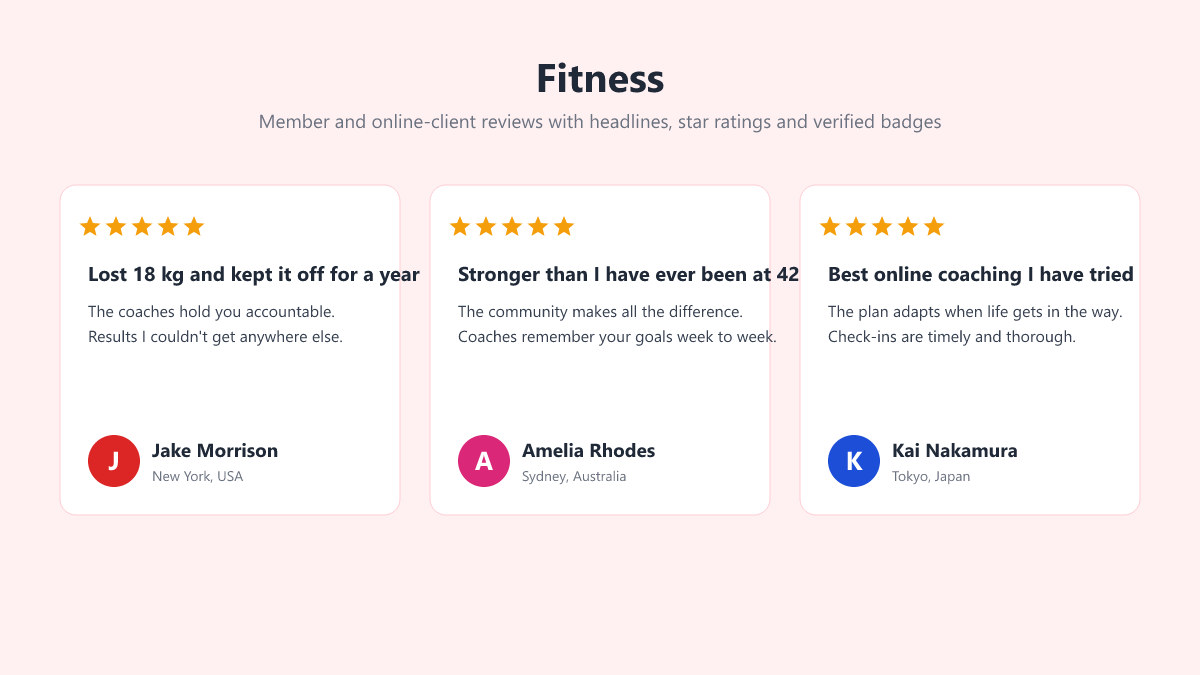
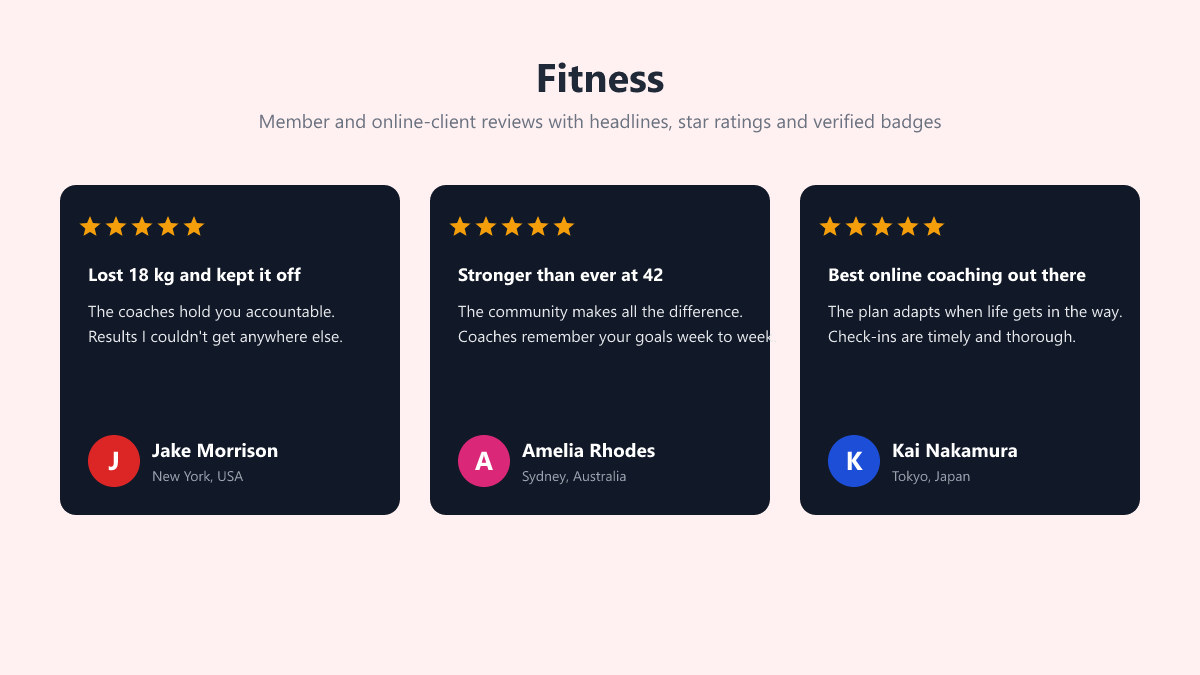
advanced-testimonial: card styles showcase, styled previews, count-free header

diff --git a/build-advanced-testimonial.js b/build-advanced-testimonial.js
@@ -105,6 +105,22 @@ function badges(d) {
 	return out;
 }
 
+/* ---------- Card styles showcase (live CSS, not screenshots) ---------- */
+const STYLE_NAMES = ['classic', 'modern', 'minimal', 'bubble', 'bold', 'glass', 'gradient', 'outline', 'retro'];
+
+function styleCards() {
+	return STYLE_NAMES.map(
+		(s) => `<div class="stylecard stylecard--${s}">
+	<p class="stylecard__label">style="${s}"</p>
+	<div class="sc">
+		<div class="sc__stars">★★★★★</div>
+		<p class="sc__quote">Onboarding was effortless and results showed within a month.</p>
+		<div class="sc__who"><span class="sc__avatar">E</span><span class="sc__meta"><span class="sc__name">Emma Thompson</span><span class="sc__role">CEO · Brightwave</span></span></div>
+	</div>
+</div>`
+	).join('\n');
+}
+
 /* ---------- Gallery index ---------- */
 function buildIndex() {
 	const cards = full
@@ -142,7 +158,7 @@ function buildIndex() {
 		${breadcrumbLd([{ name: 'All Plugins', url: ROOT_URL }, { name: 'Advanced Testimonial', url: BASE }])}
 		<p class="eyebrow">WordPress plugin</p>
 		<h1>Advanced Testimonial — Demo Library</h1>
-		<p class="lead">${esc(full.length)} ready-made testimonial sets you can import in one click from your WordPress dashboard — each built with the free <a href="${PLUGIN_WPORG}">Advanced Testimonial</a> plugin.</p>
+		<p class="lead">Ready-made testimonial sets you can import in one click from your WordPress dashboard — each built with the free <a href="${PLUGIN_WPORG}">Advanced Testimonial</a> plugin.</p>
 		<p class="links"><a class="btn" href="${PLUGIN_WPORG}">Get the plugin</a> <a class="btn btn--ghost" href="${GITHUB}">GitHub</a></p>
 	</div>
 </header>
@@ -150,6 +166,13 @@ function buildIndex() {
 	<div class="grid">
 ${cards}
 	</div>
+	<section class="styles">
+		<h2>Card styles</h2>
+		<p class="styles__lead">Every demo can wear any of these looks — pick one per block or shortcode with the <code>style</code> attribute, or set a site-wide default under <strong>Settings → Styles</strong>.</p>
+		<div class="styles__grid">
+${styleCards()}
+		</div>
+	</section>
 </main>
 <footer class="site-footer"><div class="wrap"><p>Advanced Testimonial demo library · <a href="${PLUGIN_WPORG}">WordPress.org</a> · <a href="${GITHUB}">GitHub</a></p></div></footer>
 </body></html>`;
@@ -220,6 +243,7 @@ function buildDemo(d) {
 </header>
 <main class="wrap demo">
 	<div class="demo__preview"><img src="${esc(preview)}" alt="${esc(d.name)} preview" width="1200" height="675"></div>
+	${d.preview_style ? `<p class="stylenote">Preview shown with the <code>style="${esc(d.preview_style)}"</code> card style — add it to your shortcode or block to match. The import gives you the content; the look is yours to pick.</p>` : ''}
 
 	<section class="panel">
 		<h2>How to import</h2>
@@ -285,7 +309,9 @@ a{color:var(--accent);text-decoration:none}a:hover{text-decoration:underline}
 .badge--new{background:#16a34a}.badge--featured{background:#f59e0b}
 .chip{display:inline-block;font-size:12px;padding:3px 10px;border-radius:999px;background:var(--soft);border:1px solid var(--line);color:var(--muted)}
 .demo{padding-bottom:60px}
-.demo__preview{border:1px solid var(--line);border-radius:14px;overflow:hidden;margin:28px 0}
+.demo__preview{border:1px solid var(--line);border-radius:14px;overflow:hidden;margin:28px 0 10px}
+.stylenote{margin:0 0 26px;font-size:14px;color:var(--muted)}
+.stylenote code{background:var(--soft);border:1px solid var(--line);border-radius:6px;padding:1px 7px;font-size:13px}
 .demo__preview img{width:100%;height:auto;display:block}
 .panel{border:1px solid var(--line);border-radius:14px;padding:22px 24px;margin:0 0 22px;background:#fff}
 .panel h2{margin:0 0 14px;font-size:20px}
@@ -307,6 +333,43 @@ a{color:var(--accent);text-decoration:none}a:hover{text-decoration:underline}
 .tstml__quote{margin:0;color:var(--ink);font-size:14px;line-height:1.6}
 .site-footer{border-top:1px solid var(--line);padding:26px 0;color:var(--muted);font-size:14px}
 .site-footer a{color:var(--muted)}
+/* ---- Card styles showcase ---- */
+.styles{margin:14px 0 64px}
+.styles h2{margin:0 0 8px;font-size:26px}
+.styles__lead{margin:0 0 26px;color:var(--muted);max-width:640px}
+.styles__lead code{background:var(--soft);border:1px solid var(--line);border-radius:6px;padding:1px 7px;font-size:14px}
+.styles__grid{display:grid;grid-template-columns:repeat(auto-fill,minmax(280px,1fr));gap:26px}
+.stylecard__label{margin:0 0 8px;font-size:13px;font-weight:600;color:var(--muted);font-family:ui-monospace,Consolas,monospace}
+.sc{border-radius:14px;padding:20px;background:#fff;border:1px solid var(--line);box-shadow:0 2px 10px rgba(0,0,0,.05);height:calc(100% - 30px)}
+.sc__stars{color:var(--star);letter-spacing:2px;font-size:15px}
+.sc__quote{margin:10px 0 16px;font-size:14.5px;line-height:1.6;color:var(--ink)}
+.sc__who{display:flex;align-items:center;gap:10px}
+.sc__avatar{width:38px;height:38px;border-radius:50%;background:var(--accent);color:#fff;display:inline-flex;align-items:center;justify-content:center;font-weight:700;flex:0 0 38px}
+.sc__meta{display:flex;flex-direction:column;line-height:1.35}
+.sc__name{font-weight:700;font-size:14px}
+.sc__role{font-size:12.5px;color:var(--muted)}
+.stylecard--modern .sc{background:#e7eefc;border:none;position:relative}
+.stylecard--modern .sc__quote{position:relative;padding-top:26px;color:#1e3a8a}
+.stylecard--modern .sc__quote::before{content:'\\201C';position:absolute;top:-14px;left:0;font-family:Georgia,serif;font-size:52px;line-height:1;color:var(--accent)}
+.stylecard--modern .sc__name{color:#1e3a8a}
+.stylecard--minimal .sc{background:transparent;border:none;box-shadow:none;border-left:3px solid var(--accent);border-radius:0;padding:8px 8px 8px 18px}
+.stylecard--minimal .sc__quote{font-family:Georgia,serif;font-style:italic;font-size:15.5px}
+.stylecard--bubble .sc{background:transparent;border:none;box-shadow:none;padding:0}
+.stylecard--bubble .sc__stars{padding:14px 16px 0;background:#eef0f4;border-radius:16px 16px 0 0;display:block}
+.stylecard--bubble .sc__quote{position:relative;background:#eef0f4;border-radius:0 0 16px 16px;border-bottom-left-radius:4px;padding:8px 16px 14px;margin:0 0 18px}
+.stylecard--bubble .sc__quote::after{content:'';position:absolute;left:14px;bottom:-9px;border-style:solid;border-width:10px 12px 0 0;border-color:#eef0f4 transparent transparent}
+.stylecard--bold .sc{background:#111827;border:none}
+.stylecard--bold .sc__quote{color:#e5e7eb;font-weight:500;font-size:15px}
+.stylecard--bold .sc__name{color:#fff}
+.stylecard--bold .sc__role{color:#9ca3af}
+.stylecard--glass{background:linear-gradient(135deg,#3b82f6,#7c3aed);border-radius:16px;padding:14px}
+.stylecard--glass .stylecard__label{color:rgba(255,255,255,.85)}
+.stylecard--glass .sc{background:rgba(255,255,255,.55);-webkit-backdrop-filter:blur(12px);backdrop-filter:blur(12px);border:1px solid rgba(255,255,255,.65);height:auto}
+.stylecard--gradient .sc{border:2px solid transparent;background:linear-gradient(#fff,#fff) padding-box,linear-gradient(135deg,var(--accent),var(--star)) border-box}
+.stylecard--outline .sc{background:transparent;border:2px solid var(--accent);box-shadow:none}
+.stylecard--retro .sc{border:2px solid #111827;box-shadow:5px 5px 0 #111827;transition:transform .15s,box-shadow .15s}
+.stylecard--retro .sc:hover{transform:translate(-2px,-2px);box-shadow:7px 7px 0 #111827}
+.stylecard--retro .sc__avatar{border:2px solid #111827}
 @media(max-width:560px){.tstml__stars{margin-left:0}.tstml__top{flex-wrap:wrap}.site-header h1{font-size:27px}}
 `;
 

diff --git a/advanced-testimonial/index.html b/advanced-testimonial/index.html
@@ -18,7 +18,7 @@
 		<script type="application/ld+json">{"@context":"https://schema.org","@type":"BreadcrumbList","itemListElement":[{"@type":"ListItem","position":1,"name":"All Plugins","item":"https://devmonowar.github.io/wp-plugin-demo-library/"},{"@type":"ListItem","position":2,"name":"Advanced Testimonial","item":"https://devmonowar.github.io/wp-plugin-demo-library/advanced-testimonial/"}]}</script>
 		<p class="eyebrow">WordPress plugin</p>
 		<h1>Advanced Testimonial — Demo Library</h1>
-		<p class="lead">10 ready-made testimonial sets you can import in one click from your WordPress dashboard — each built with the free <a href="https://wordpress.org/plugins/advanced-testimonial/">Advanced Testimonial</a> plugin.</p>
+		<p class="lead">Ready-made testimonial sets you can import in one click from your WordPress dashboard — each built with the free <a href="https://wordpress.org/plugins/advanced-testimonial/">Advanced Testimonial</a> plugin.</p>
 		<p class="links"><a class="btn" href="https://wordpress.org/plugins/advanced-testimonial/">Get the plugin</a> <a class="btn btn--ghost" href="https://github.com/devmonowar/advanced-testimonial">GitHub</a></p>
 	</div>
 </header>
@@ -105,6 +105,84 @@
 	</div>
 </a>
 	</div>
+	<section class="styles">
+		<h2>Card styles</h2>
+		<p class="styles__lead">Every demo can wear any of these looks — pick one per block or shortcode with the <code>style</code> attribute, or set a site-wide default under <strong>Settings → Styles</strong>.</p>
+		<div class="styles__grid">
+<div class="stylecard stylecard--classic">
+	<p class="stylecard__label">style="classic"</p>
+	<div class="sc">
+		<div class="sc__stars">★★★★★</div>
+		<p class="sc__quote">Onboarding was effortless and results showed within a month.</p>
+		<div class="sc__who"><span class="sc__avatar">E</span><span class="sc__meta"><span class="sc__name">Emma Thompson</span><span class="sc__role">CEO · Brightwave</span></span></div>
+	</div>
+</div>
+<div class="stylecard stylecard--modern">
+	<p class="stylecard__label">style="modern"</p>
+	<div class="sc">
+		<div class="sc__stars">★★★★★</div>
+		<p class="sc__quote">Onboarding was effortless and results showed within a month.</p>
+		<div class="sc__who"><span class="sc__avatar">E</span><span class="sc__meta"><span class="sc__name">Emma Thompson</span><span class="sc__role">CEO · Brightwave</span></span></div>
+	</div>
+</div>
+<div class="stylecard stylecard--minimal">
+	<p class="stylecard__label">style="minimal"</p>
+	<div class="sc">
+		<div class="sc__stars">★★★★★</div>
+		<p class="sc__quote">Onboarding was effortless and results showed within a month.</p>
+		<div class="sc__who"><span class="sc__avatar">E</span><span class="sc__meta"><span class="sc__name">Emma Thompson</span><span class="sc__role">CEO · Brightwave</span></span></div>
+	</div>
+</div>
+<div class="stylecard stylecard--bubble">
+	<p class="stylecard__label">style="bubble"</p>
+	<div class="sc">
+		<div class="sc__stars">★★★★★</div>
+		<p class="sc__quote">Onboarding was effortless and results showed within a month.</p>
+		<div class="sc__who"><span class="sc__avatar">E</span><span class="sc__meta"><span class="sc__name">Emma Thompson</span><span class="sc__role">CEO · Brightwave</span></span></div>
+	</div>
+</div>
+<div class="stylecard stylecard--bold">
+	<p class="stylecard__label">style="bold"</p>
+	<div class="sc">
+		<div class="sc__stars">★★★★★</div>
+		<p class="sc__quote">Onboarding was effortless and results showed within a month.</p>
+		<div class="sc__who"><span class="sc__avatar">E</span><span class="sc__meta"><span class="sc__name">Emma Thompson</span><span class="sc__role">CEO · Brightwave</span></span></div>
+	</div>
+</div>
+<div class="stylecard stylecard--glass">
+	<p class="stylecard__label">style="glass"</p>
+	<div class="sc">
+		<div class="sc__stars">★★★★★</div>
+		<p class="sc__quote">Onboarding was effortless and results showed within a month.</p>
+		<div class="sc__who"><span class="sc__avatar">E</span><span class="sc__meta"><span class="sc__name">Emma Thompson</span><span class="sc__role">CEO · Brightwave</span></span></div>
+	</div>
+</div>
+<div class="stylecard stylecard--gradient">
+	<p class="stylecard__label">style="gradient"</p>
+	<div class="sc">
+		<div class="sc__stars">★★★★★</div>
+		<p class="sc__quote">Onboarding was effortless and results showed within a month.</p>
+		<div class="sc__who"><span class="sc__avatar">E</span><span class="sc__meta"><span class="sc__name">Emma Thompson</span><span class="sc__role">CEO · Brightwave</span></span></div>
+	</div>
+</div>
+<div class="stylecard stylecard--outline">
+	<p class="stylecard__label">style="outline"</p>
+	<div class="sc">
+		<div class="sc__stars">★★★★★</div>
+		<p class="sc__quote">Onboarding was effortless and results showed within a month.</p>
+		<div class="sc__who"><span class="sc__avatar">E</span><span class="sc__meta"><span class="sc__name">Emma Thompson</span><span class="sc__role">CEO · Brightwave</span></span></div>
+	</div>
+</div>
+<div class="stylecard stylecard--retro">
+	<p class="stylecard__label">style="retro"</p>
+	<div class="sc">
+		<div class="sc__stars">★★★★★</div>
+		<p class="sc__quote">Onboarding was effortless and results showed within a month.</p>
+		<div class="sc__who"><span class="sc__avatar">E</span><span class="sc__meta"><span class="sc__name">Emma Thompson</span><span class="sc__role">CEO · Brightwave</span></span></div>
+	</div>
+</div>
+		</div>
+	</section>
 </main>
 <footer class="site-footer"><div class="wrap"><p>Advanced Testimonial demo library · <a href="https://wordpress.org/plugins/advanced-testimonial/">WordPress.org</a> · <a href="https://github.com/devmonowar/advanced-testimonial">GitHub</a></p></div></footer>
 </body></html>

diff --git a/advanced-testimonial/site.css b/advanced-testimonial/site.css
@@ -31,7 +31,9 @@ a{color:var(--accent);text-decoration:none}a:hover{text-decoration:underline}
 .badge--new{background:#16a34a}.badge--featured{background:#f59e0b}
 .chip{display:inline-block;font-size:12px;padding:3px 10px;border-radius:999px;background:var(--soft);border:1px solid var(--line);color:var(--muted)}
 .demo{padding-bottom:60px}
-.demo__preview{border:1px solid var(--line);border-radius:14px;overflow:hidden;margin:28px 0}
+.demo__preview{border:1px solid var(--line);border-radius:14px;overflow:hidden;margin:28px 0 10px}
+.stylenote{margin:0 0 26px;font-size:14px;color:var(--muted)}
+.stylenote code{background:var(--soft);border:1px solid var(--line);border-radius:6px;padding:1px 7px;font-size:13px}
 .demo__preview img{width:100%;height:auto;display:block}
 .panel{border:1px solid var(--line);border-radius:14px;padding:22px 24px;margin:0 0 22px;background:#fff}
 .panel h2{margin:0 0 14px;font-size:20px}
@@ -53,4 +55,41 @@ a{color:var(--accent);text-decoration:none}a:hover{text-decoration:underline}
 .tstml__quote{margin:0;color:var(--ink);font-size:14px;line-height:1.6}
 .site-footer{border-top:1px solid var(--line);padding:26px 0;color:var(--muted);font-size:14px}
 .site-footer a{color:var(--muted)}
+/* ---- Card styles showcase ---- */
+.styles{margin:14px 0 64px}
+.styles h2{margin:0 0 8px;font-size:26px}
+.styles__lead{margin:0 0 26px;color:var(--muted);max-width:640px}
+.styles__lead code{background:var(--soft);border:1px solid var(--line);border-radius:6px;padding:1px 7px;font-size:14px}
+.styles__grid{display:grid;grid-template-columns:repeat(auto-fill,minmax(280px,1fr));gap:26px}
+.stylecard__label{margin:0 0 8px;font-size:13px;font-weight:600;color:var(--muted);font-family:ui-monospace,Consolas,monospace}
+.sc{border-radius:14px;padding:20px;background:#fff;border:1px solid var(--line);box-shadow:0 2px 10px rgba(0,0,0,.05);height:calc(100% - 30px)}
+.sc__stars{color:var(--star);letter-spacing:2px;font-size:15px}
+.sc__quote{margin:10px 0 16px;font-size:14.5px;line-height:1.6;color:var(--ink)}
+.sc__who{display:flex;align-items:center;gap:10px}
+.sc__avatar{width:38px;height:38px;border-radius:50%;background:var(--accent);color:#fff;display:inline-flex;align-items:center;justify-content:center;font-weight:700;flex:0 0 38px}
+.sc__meta{display:flex;flex-direction:column;line-height:1.35}
+.sc__name{font-weight:700;font-size:14px}
+.sc__role{font-size:12.5px;color:var(--muted)}
+.stylecard--modern .sc{background:#e7eefc;border:none;position:relative}
+.stylecard--modern .sc__quote{position:relative;padding-top:26px;color:#1e3a8a}
+.stylecard--modern .sc__quote::before{content:'\201C';position:absolute;top:-14px;left:0;font-family:Georgia,serif;font-size:52px;line-height:1;color:var(--accent)}
+.stylecard--modern .sc__name{color:#1e3a8a}
+.stylecard--minimal .sc{background:transparent;border:none;box-shadow:none;border-left:3px solid var(--accent);border-radius:0;padding:8px 8px 8px 18px}
+.stylecard--minimal .sc__quote{font-family:Georgia,serif;font-style:italic;font-size:15.5px}
+.stylecard--bubble .sc{background:transparent;border:none;box-shadow:none;padding:0}
+.stylecard--bubble .sc__stars{padding:14px 16px 0;background:#eef0f4;border-radius:16px 16px 0 0;display:block}
+.stylecard--bubble .sc__quote{position:relative;background:#eef0f4;border-radius:0 0 16px 16px;border-bottom-left-radius:4px;padding:8px 16px 14px;margin:0 0 18px}
+.stylecard--bubble .sc__quote::after{content:'';position:absolute;left:14px;bottom:-9px;border-style:solid;border-width:10px 12px 0 0;border-color:#eef0f4 transparent transparent}
+.stylecard--bold .sc{background:#111827;border:none}
+.stylecard--bold .sc__quote{color:#e5e7eb;font-weight:500;font-size:15px}
+.stylecard--bold .sc__name{color:#fff}
+.stylecard--bold .sc__role{color:#9ca3af}
+.stylecard--glass{background:linear-gradient(135deg,#3b82f6,#7c3aed);border-radius:16px;padding:14px}
+.stylecard--glass .stylecard__label{color:rgba(255,255,255,.85)}
+.stylecard--glass .sc{background:rgba(255,255,255,.55);-webkit-backdrop-filter:blur(12px);backdrop-filter:blur(12px);border:1px solid rgba(255,255,255,.65);height:auto}
+.stylecard--gradient .sc{border:2px solid transparent;background:linear-gradient(#fff,#fff) padding-box,linear-gradient(135deg,var(--accent),var(--star)) border-box}
+.stylecard--outline .sc{background:transparent;border:2px solid var(--accent);box-shadow:none}
+.stylecard--retro .sc{border:2px solid #111827;box-shadow:5px 5px 0 #111827;transition:transform .15s,box-shadow .15s}
+.stylecard--retro .sc:hover{transform:translate(-2px,-2px);box-shadow:7px 7px 0 #111827}
+.stylecard--retro .sc__avatar{border:2px solid #111827}
 @media(max-width:560px){.tstml__stars{margin-left:0}.tstml__top{flex-wrap:wrap}.site-header h1{font-size:27px}}

diff --git a/advanced-testimonial/freelancer/index.html b/advanced-testimonial/freelancer/index.html
@@ -29,6 +29,7 @@
 </header>
 <main class="wrap demo">
 	<div class="demo__preview"><img src="../previews/freelancer.jpg" alt="Freelancer preview" width="1200" height="675"></div>
+	<p class="stylenote">Preview shown with the <code>style="minimal"</code> card style — add it to your shortcode or block to match. The import gives you the content; the look is yours to pick.</p>
 
 	<section class="panel">
 		<h2>How to import</h2>

diff --git a/advanced-testimonial/restaurant/index.html b/advanced-testimonial/restaurant/index.html
@@ -29,6 +29,7 @@
 </header>
 <main class="wrap demo">
 	<div class="demo__preview"><img src="../previews/restaurant.jpg" alt="Restaurant preview" width="1200" height="675"></div>
+	<p class="stylenote">Preview shown with the <code>style="bubble"</code> card style — add it to your shortcode or block to match. The import gives you the content; the look is yours to pick.</p>
 
 	<section class="panel">
 		<h2>How to import</h2>

diff --git a/advanced-testimonial/fitness/index.html b/advanced-testimonial/fitness/index.html
@@ -29,6 +29,7 @@
 </header>
 <main class="wrap demo">
 	<div class="demo__preview"><img src="../previews/fitness.jpg" alt="Fitness preview" width="1200" height="675"></div>
+	<p class="stylenote">Preview shown with the <code>style="bold"</code> card style — add it to your shortcode or block to match. The import gives you the content; the look is yours to pick.</p>
 
 	<section class="panel">
 		<h2>How to import</h2>

diff --git a/advanced-testimonial/saas/index.html b/advanced-testimonial/saas/index.html
@@ -29,6 +29,7 @@
 </header>
 <main class="wrap demo">
 	<div class="demo__preview"><img src="../previews/saas.jpg" alt="SaaS preview" width="1200" height="675"></div>
+	<p class="stylenote">Preview shown with the <code>style="gradient"</code> card style — add it to your shortcode or block to match. The import gives you the content; the look is yours to pick.</p>
 
 	<section class="panel">
 		<h2>How to import</h2>

diff --git a/advanced-testimonial/online-course/index.html b/advanced-testimonial/online-course/index.html
@@ -29,6 +29,7 @@
 </header>
 <main class="wrap demo">
 	<div class="demo__preview"><img src="../previews/online-course.jpg" alt="Online Course preview" width="1200" height="675"></div>
+	
 
 	<section class="panel">
 		<h2>How to import</h2>

diff --git a/advanced-testimonial/real-estate/index.html b/advanced-testimonial/real-estate/index.html
@@ -29,6 +29,7 @@
 </header>
 <main class="wrap demo">
 	<div class="demo__preview"><img src="../previews/real-estate.jpg" alt="Real Estate preview" width="1200" height="675"></div>
+	
 
 	<section class="panel">
 		<h2>How to import</h2>

diff --git a/advanced-testimonial/woocommerce/index.html b/advanced-testimonial/woocommerce/index.html
@@ -29,6 +29,7 @@
 </header>
 <main class="wrap demo">
 	<div class="demo__preview"><img src="../previews/woocommerce.jpg" alt="WooCommerce preview" width="1200" height="675"></div>
+	
 
 	<section class="panel">
 		<h2>How to import</h2>

diff --git a/advanced-testimonial/healthcare/index.html b/advanced-testimonial/healthcare/index.html
@@ -29,6 +29,7 @@
 </header>
 <main class="wrap demo">
 	<div class="demo__preview"><img src="../previews/healthcare.jpg" alt="Healthcare preview" width="1200" height="675"></div>
+	
 
 	<section class="panel">
 		<h2>How to import</h2>

diff --git a/advanced-testimonial/business/index.html b/advanced-testimonial/business/index.html
@@ -29,6 +29,7 @@
 </header>
 <main class="wrap demo">
 	<div class="demo__preview"><img src="../previews/business.jpg" alt="Business preview" width="1200" height="675"></div>
+	
 
 	<section class="panel">
 		<h2>How to import</h2>
